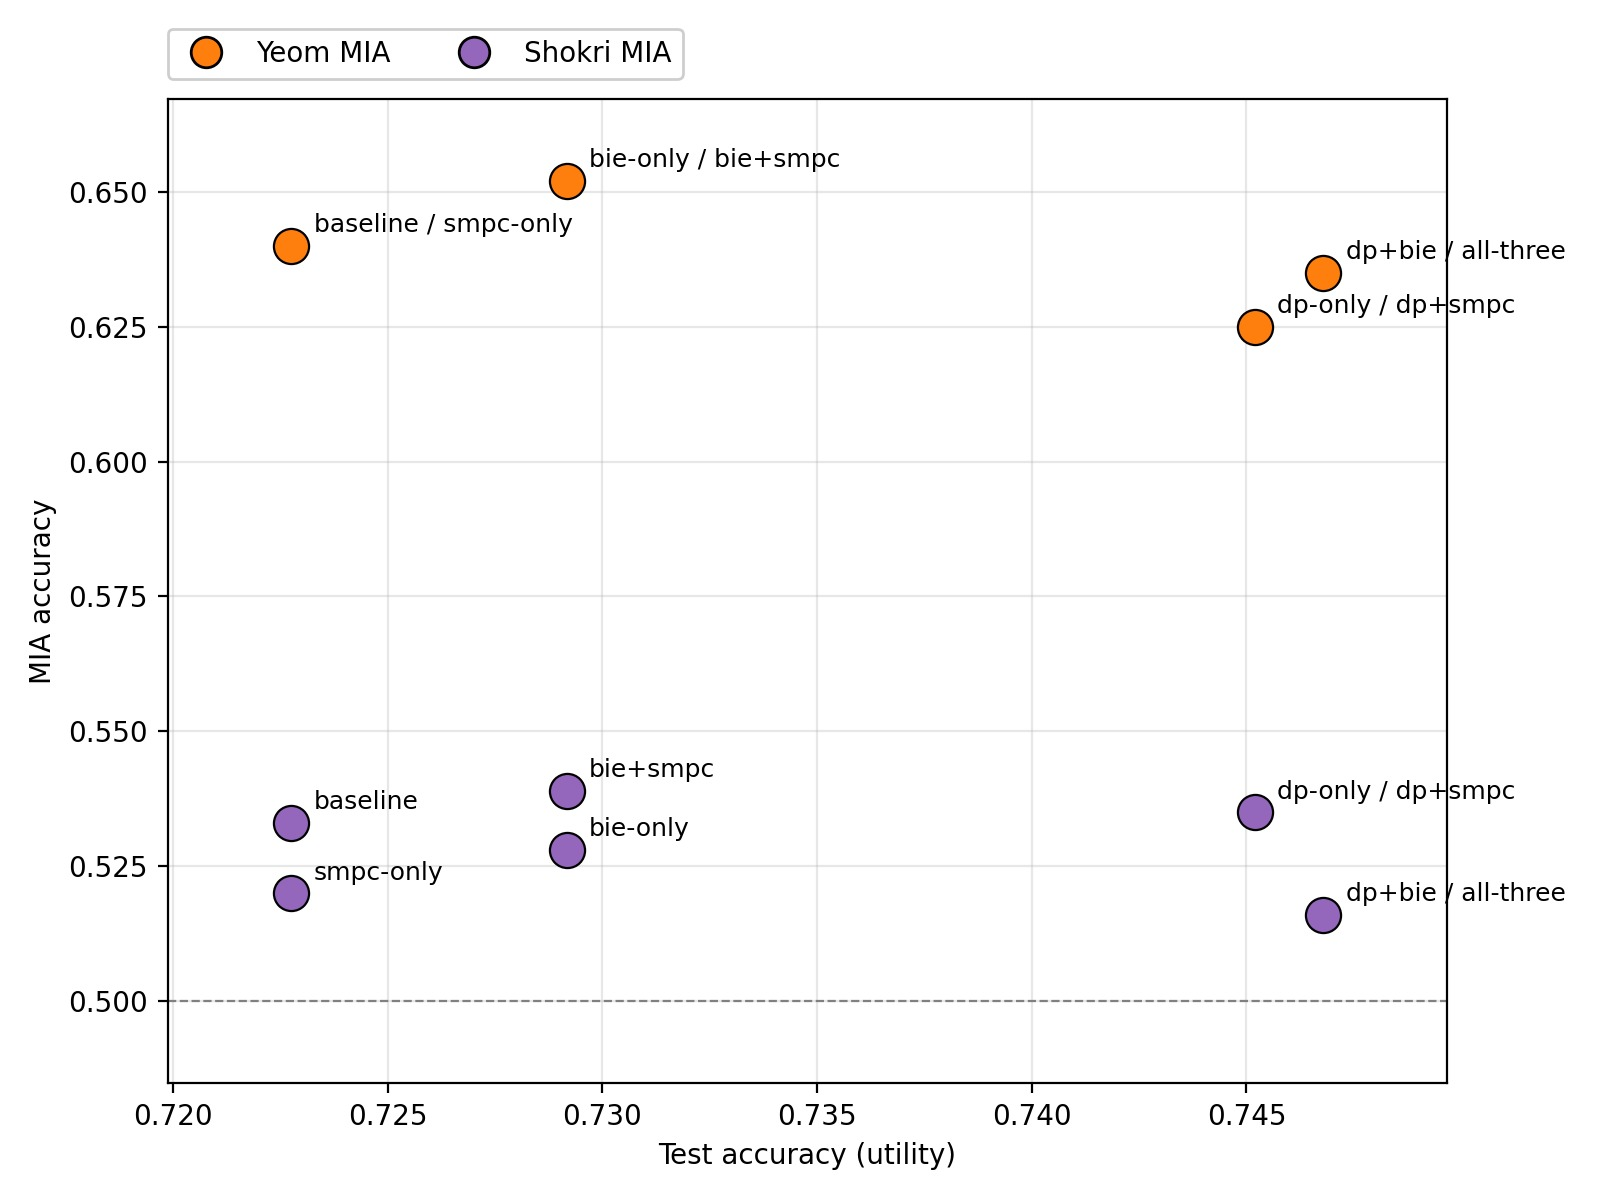
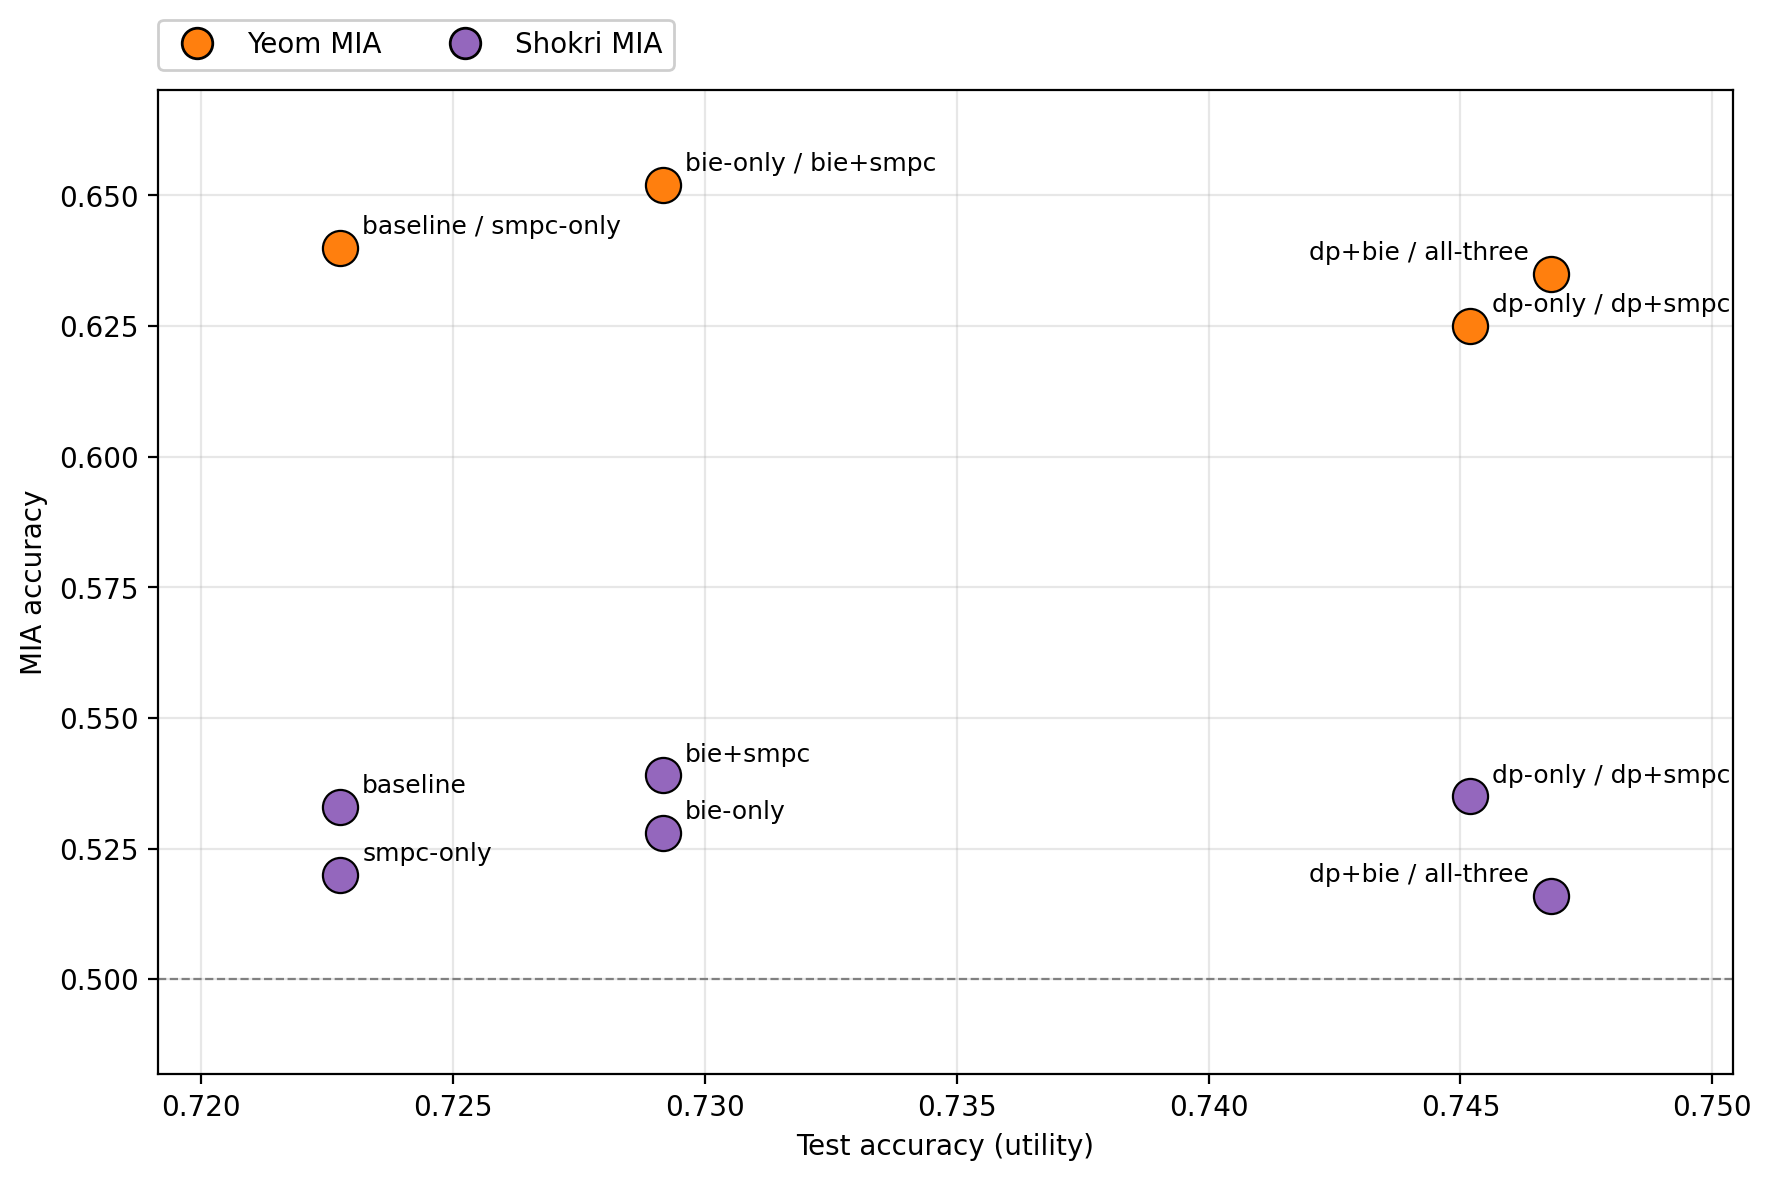
recon png fixed

diff --git a/scripts/plot_results.py b/scripts/plot_results.py
@@ -95,7 +95,7 @@ def plot_reconstruction(records: Dict[str, dict], out_path: Path) -> None:
     psnr = [_recon_psnr_threat_consistent(records[t]) for t in tags]
     colors = _bar_colors(tags)
 
-    fig, ax = plt.subplots(figsize=(10, 5))
+    fig, ax = plt.subplots(figsize=(10, 5.6))
     bars = ax.bar(tags, psnr, color=colors, edgecolor="black", linewidth=0.5)
 
     baseline_psnr = records["baseline"]["reconstruction"]["psnr"]
@@ -142,7 +142,7 @@ def plot_pareto(records: Dict[str, dict], out_path: Path) -> None:
     YEOM_COLOR = "#ff7f0e"
     SHOKRI_COLOR = "#9467bd"
 
-    fig, ax = plt.subplots(figsize=(8, 6))
+    fig, ax = plt.subplots(figsize=(9, 6))
 
     def plot_series(values, color):
         groups: Dict[tuple, dict] = {}
@@ -155,8 +155,11 @@ def plot_pareto(records: Dict[str, dict], out_path: Path) -> None:
             ax.scatter(g["acc"], g["atk"], s=160, color=color,
                        edgecolor="black", linewidth=0.8, zorder=3)
             label = " / ".join(g["tags"])
-            ax.annotate(label, (g["acc"], g["atk"]), xytext=(8, 5),
-                        textcoords="offset points", fontsize=9)
+            x_off, ha = (8, "left")
+            if g["acc"] >= max(test_acc) - 1e-6:
+                x_off, ha = (-8, "right")
+            ax.annotate(label, (g["acc"], g["atk"]), xytext=(x_off, 5),
+                        textcoords="offset points", fontsize=9, ha=ha)
 
     plot_series(yeom, YEOM_COLOR)
     plot_series(shokri, SHOKRI_COLOR)
@@ -173,13 +176,13 @@ def plot_pareto(records: Dict[str, dict], out_path: Path) -> None:
         plt.Line2D([0], [0], marker="o", color="w", markerfacecolor=SHOKRI_COLOR,
                    markeredgecolor="black", markersize=11, label="Shokri MIA"),
     ]
-    ax.margins(x=0.12, y=0.10)
+    ax.margins(x=0.15, y=0.12)
     ax.legend(handles=legend_handles, loc="lower left",
               bbox_to_anchor=(0.0, 1.02), ncol=2,
               framealpha=0.95, borderaxespad=0.0)
 
     fig.tight_layout()
-    fig.savefig(out_path, dpi=200)
+    fig.savefig(out_path, dpi=200, bbox_inches="tight")
     plt.close(fig)
 
 

diff --git a/report.tex b/report.tex
@@ -234,6 +234,7 @@ all-three  & perm.~img. & noisy emb. & \checkmark \\
 \label{fig:pareto}
 \end{figure}
 
+\vspace{-1em}
 \begin{figure}[htbp]
 \centering
 \includegraphics[width=\linewidth]{fig_reconstruction.png}
